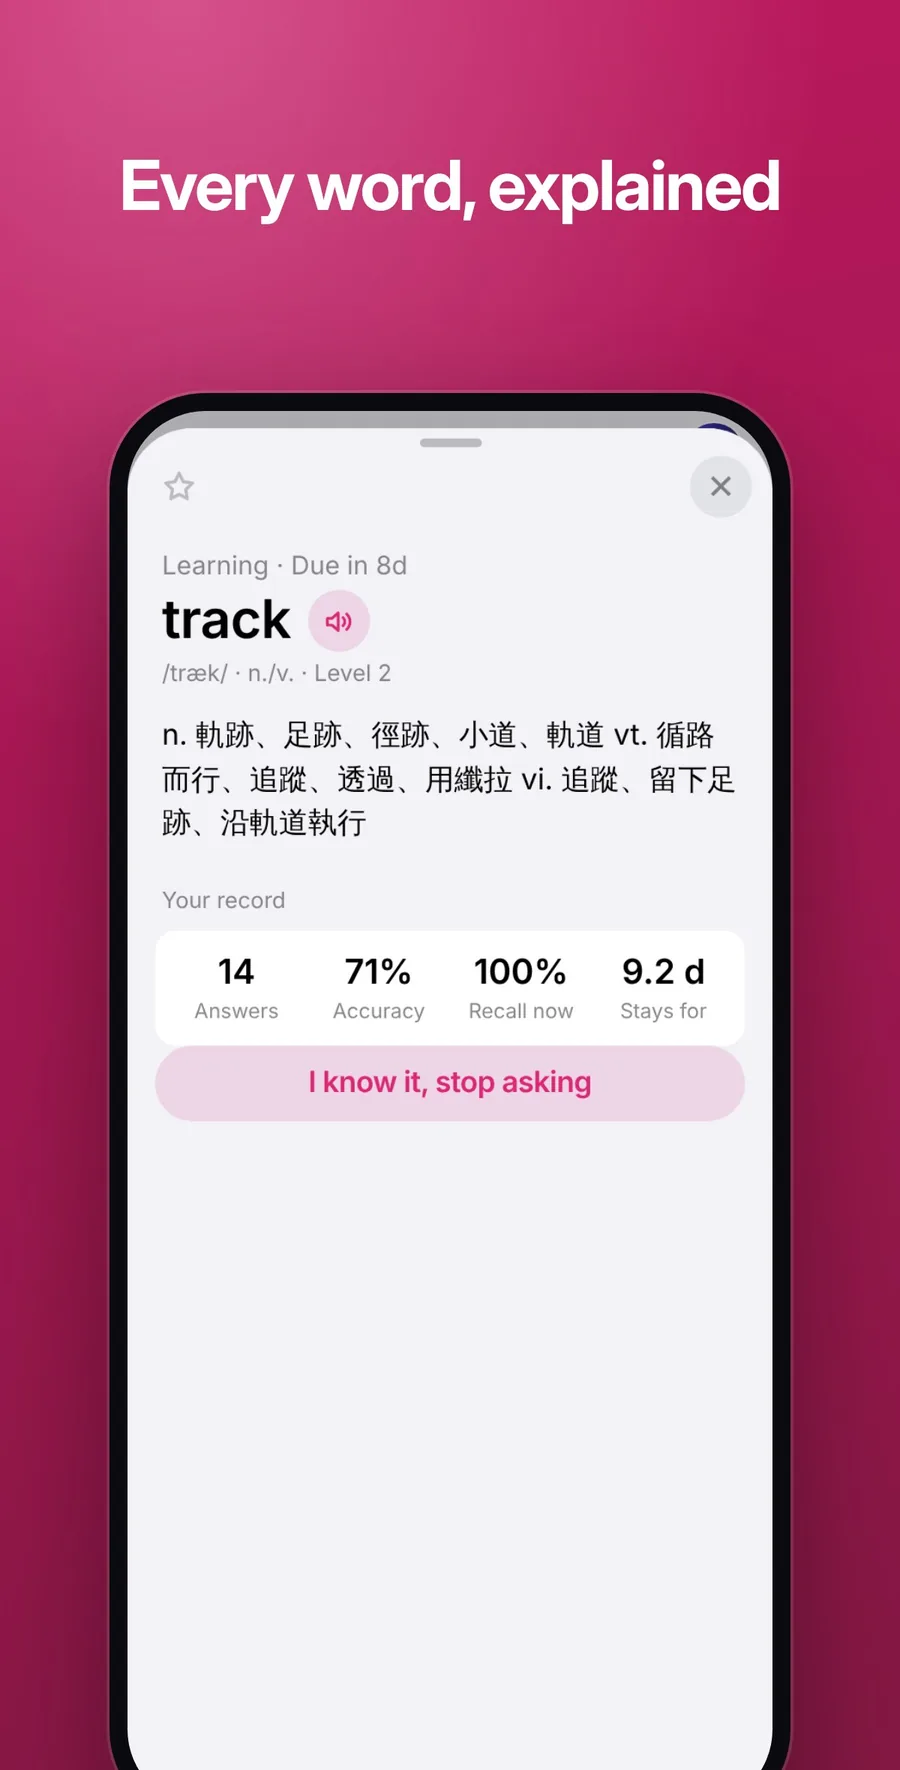
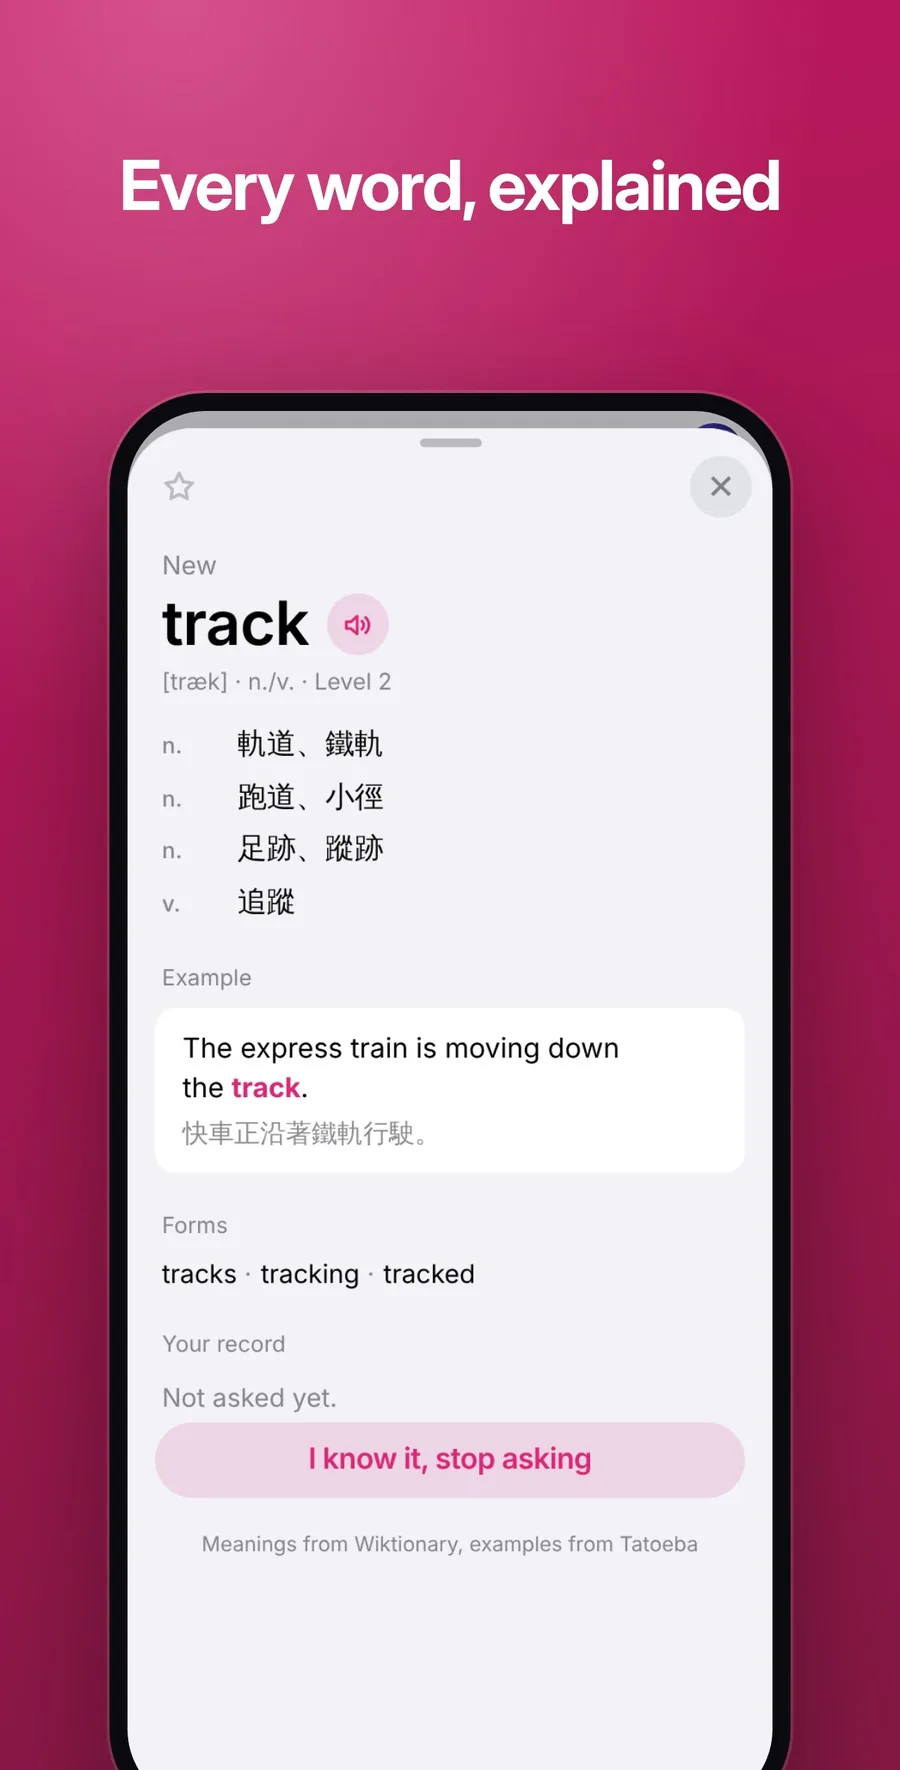
README: the new dictionary and the 單字比賽 practice paper; the word page's screenshot retaken
Claude-Session: https://claude.ai/code/session_01DckgWMSXdaHh8fMPe1M6EA

diff --git a/README.md b/README.md
@@ -35,7 +35,8 @@ English vocabulary that sticks: the full 大考中心 list, levels 1 to 6 (6,169
 - **A quick check first:** a word you know at a glance goes away for weeks; one you miss is learnt.
 - **Every way of asking:** meaning, word, by ear, and dictation once a word is held.
 - **Review:** wrong answers, what's due, what you're learning and your saved words, as flash cards and then a test.
-- **A word's page:** sound, KK, the senses a student needs first, an example sentence with its Chinese, the word's forms, a line to remember it by, what you mixed it up with, your misspellings and the chance you still know it.
+- **A word's page,** from a dictionary written for Taiwan students (meanings from Wiktionary in Taiwan wording, the main sense first): sound, KK, the senses a student needs first, an example sentence with its Chinese, the word's forms, a line to remember it by, what you mixed it up with, your misspellings and the chance you still know it.
+- **單字比賽 practice paper** in the 區域決賽's shape: 50 spelling-by-ear questions (each said twice) and 50 vocabulary questions (30 single, 4 sets).
 - **Progress:** level and points, accuracy, the last 14 days, each level, and the words you forget most.
 - **Fully offline**, synced between devices through the Orbit Pass.
 
